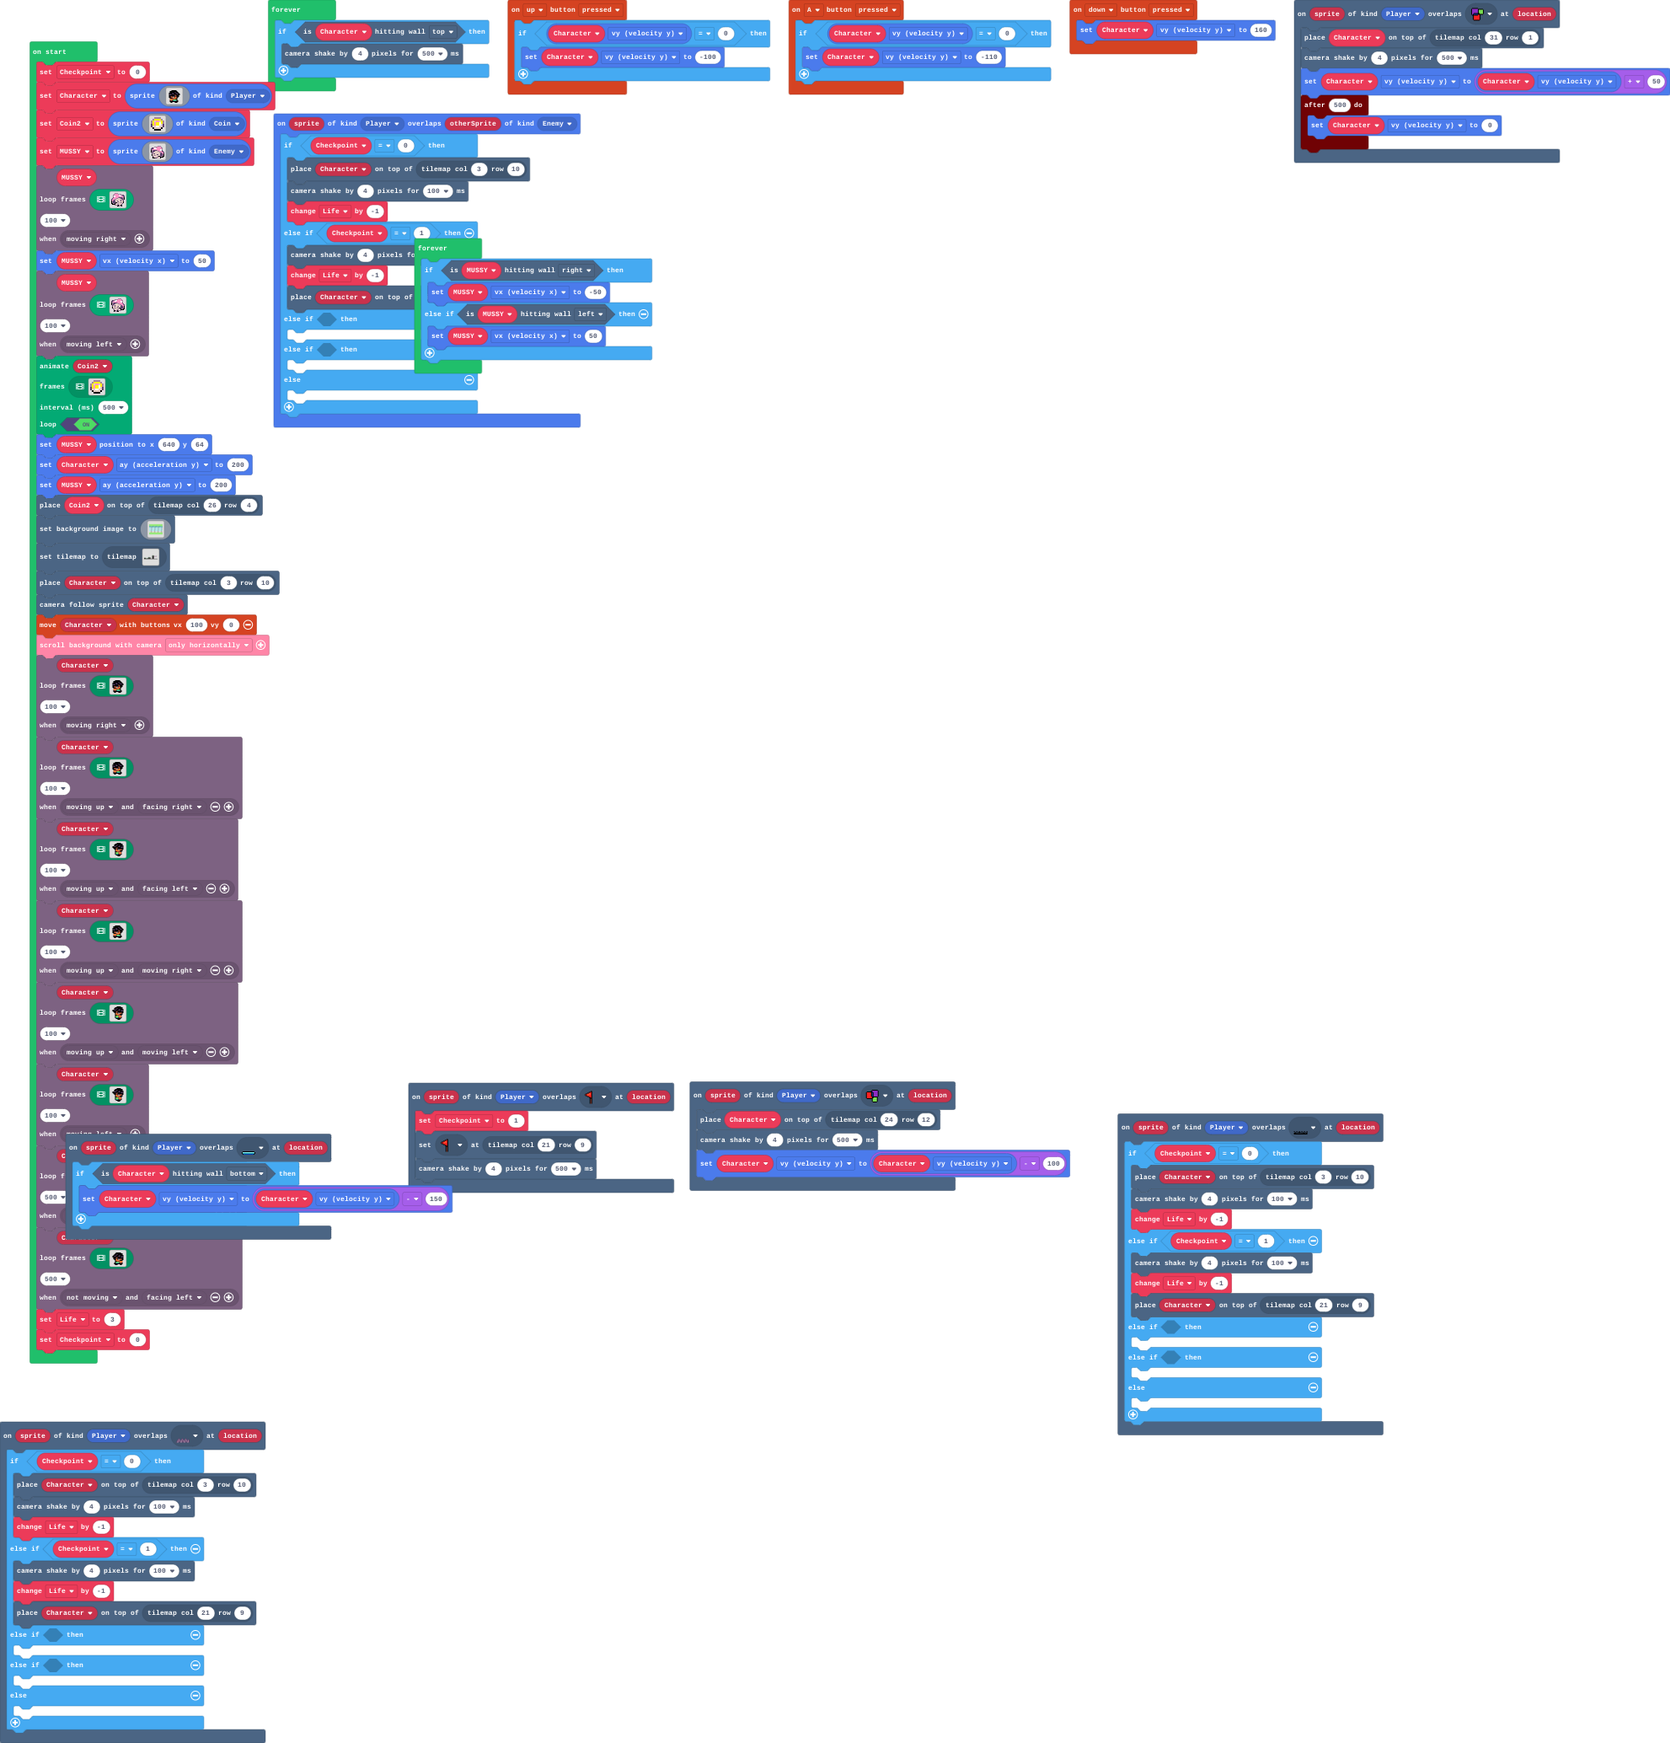
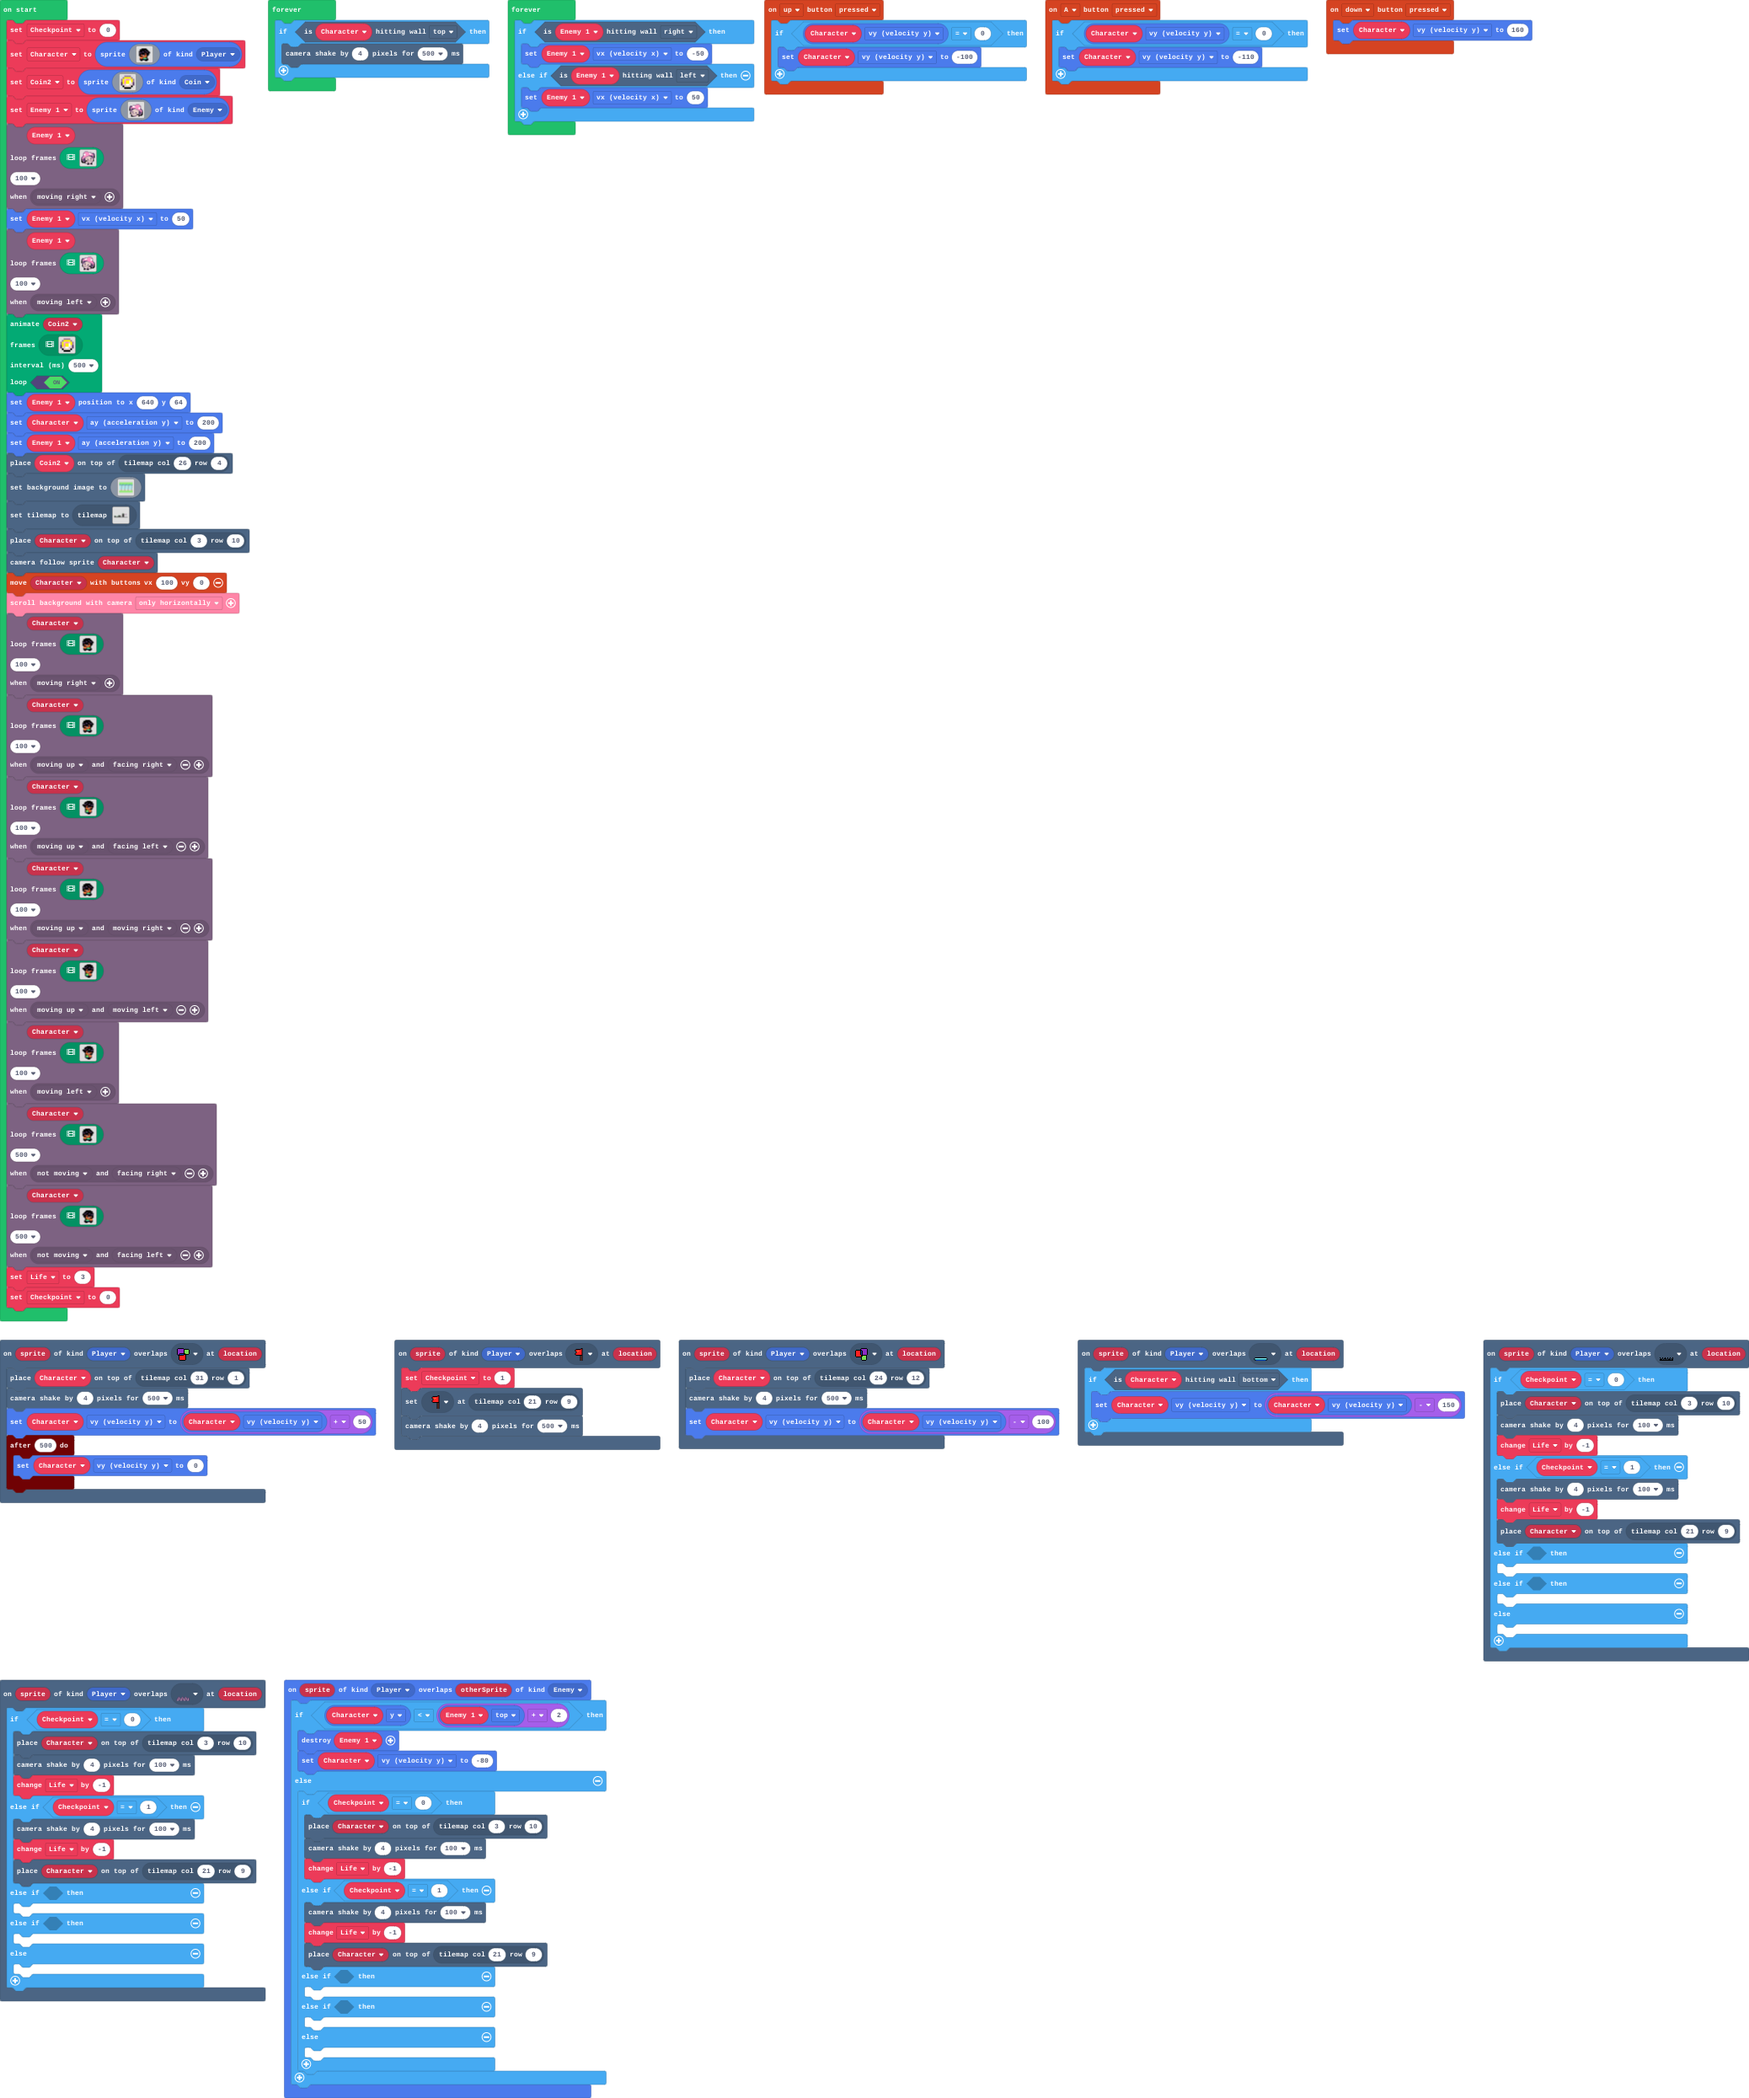
Update main.blocks, main.ts, tilemap.g.jres, tilemap.g.ts

Changed region(s): [[0.0, 0.0, 1.0, 1.0]]

diff --git a/tilemap.g.ts b/tilemap.g.ts
@@ -5,10 +5,6 @@ namespace myTiles {
     //% fixedInstance jres blockIdentity=images._tile
     export const tile1 = image.ofBuffer(hex``);
     //% fixedInstance jres blockIdentity=images._tile
-    export const tile2 = image.ofBuffer(hex``);
-    //% fixedInstance jres blockIdentity=images._tile
-    export const tile3 = image.ofBuffer(hex``);
-    //% fixedInstance jres blockIdentity=images._tile
     export const tile4 = image.ofBuffer(hex``);
     //% fixedInstance jres blockIdentity=images._tile
     export const tile5 = image.ofBuffer(hex``);
@@ -26,28 +22,13 @@ namespace myTiles {
     export const tile12 = image.ofBuffer(hex``);
     //% fixedInstance jres blockIdentity=images._tile
     export const tile6 = image.ofBuffer(hex``);
+    //% fixedInstance jres blockIdentity=images._tile
+    export const tile2 = image.ofBuffer(hex``);
+    //% fixedInstance jres blockIdentity=images._tile
+    export const tile3 = image.ofBuffer(hex``);
 
     helpers._registerFactory("tilemap", function(name: string) {
         switch(helpers.stringTrim(name)) {
-            case "level1":
[1 lines of base64/hex data omitted]
-................................................
-................................................
-................................................
-.............................222222.............
-.............................222222.2.......2...
-.............................222222.222222222...
-.............................222222.222222222...
-.............................222222.............
-.............................222222.............
-................222..........222222.............
-................2222222......222222.............
-222222........2.2222222......222222.............
-222222.......2222222222......222222.............
-222222.22222.2222222222......222222.............
-222222.22222.2222222222......222222.............
-222222.22222.2222222222......222222.............
-`, [myTiles.transparency16,sprites.builtin.forestTiles1,sprites.builtin.forestTiles2,sprites.builtin.forestTiles3,sprites.builtin.forestTiles5,sprites.builtin.forestTiles7,sprites.builtin.forestTiles6,sprites.builtin.forestTiles9,sprites.builtin.forestTiles11,sprites.builtin.forestTiles10,myTiles.tile1,myTiles.tile4,myTiles.tile5,sprites.builtin.forestTiles4,myTiles.tile6,myTiles.tile2,myTiles.tile10,myTiles.tile11,myTiles.tile12,sprites.builtin.oceanSand4,sprites.builtin.oceanSand8,sprites.builtin.oceanSand2,sprites.builtin.oceanSand13,sprites.builtin.oceanSand15], TileScale.Sixteen);
             case "level2":
             case "level2":return tiles.createTilemap(hex`1000100000000000000000000000000000000000000000000000000000000000000000000000000000000000000000000000000000000000000000000000000000000000000000000000000000000000000000000000000000000000000000000000000000000000000000000000000000000000000000000000000000000000000000000000000000000000000000000000000000000000000000000000000000000000000000000000000000000000000000000000000000000000000000000000000000000000000000000000000000000000000000000000000000000000000000000000000000000000000000000000000000000000000000000000000000000000`, img`
 . . . . . . . . . . . . . . . . 
@@ -67,6 +48,25 @@ namespace myTiles {
 . . . . . . . . . . . . . . . . 
 . . . . . . . . . . . . . . . . 
 `, [myTiles.transparency16], TileScale.Sixteen);
+            case "level1":
[1 lines of base64/hex data omitted]
+................................................
+................................................
+................................................
+.............................222222.............
+.............................222222.2.......2...
+.............................222222.222222222...
+.............................222222.222222222...
+.............................222222.............
+.............................222222.............
+................222..........222222.............
+................2222222......222222.............
+222222........2.2222222......222222.............
+222222.......2222222222......222222.............
+222222.22222.2222222222......222222.............
+222222.22222.2222222222......222222.............
+222222.22222.2222222222......222222.............
+`, [myTiles.transparency16,sprites.builtin.forestTiles1,sprites.builtin.forestTiles2,sprites.builtin.forestTiles3,sprites.builtin.forestTiles5,sprites.builtin.forestTiles7,sprites.builtin.forestTiles6,sprites.builtin.forestTiles9,sprites.builtin.forestTiles11,sprites.builtin.forestTiles10,myTiles.tile1,myTiles.tile4,myTiles.tile5,sprites.builtin.forestTiles4,myTiles.tile6,myTiles.tile2,myTiles.tile10,myTiles.tile11,myTiles.tile12,sprites.builtin.oceanSand4,sprites.builtin.oceanSand8,sprites.builtin.oceanSand2,sprites.builtin.oceanSand13,sprites.builtin.oceanSand15], TileScale.Sixteen);
         }
         return null;
     })
@@ -76,10 +76,6 @@ namespace myTiles {
             case "transparency16":return transparency16;
             case "myTile":
             case "tile1":return tile1;
-            case "myTile0":
-            case "tile2":return tile2;
-            case "myTile1":
-            case "tile3":return tile3;
             case "forestTiles15":
             case "tile4":return tile4;
             case "forestTiles13":
@@ -98,6 +94,10 @@ namespace myTiles {
             case "tile12":return tile12;
             case "myTile2":
             case "tile6":return tile6;
+            case "myTile0":
+            case "tile2":return tile2;
+            case "myTile1":
+            case "tile3":return tile3;
         }
         return null;
     })

diff --git a/main.ts b/main.ts
@@ -72,22 +72,28 @@ scene.onOverlapTile(SpriteKind.Player, assets.tile`myTile2`, function (sprite, l
     }
 })
 sprites.onOverlap(SpriteKind.Player, SpriteKind.Enemy, function (sprite, otherSprite) {
-    if (Checkpoint == 0) {
-        tiles.placeOnTile(Character, tiles.getTileLocation(3, 10))
-        scene.cameraShake(4, 100)
-        Life += -1
-    } else if (Checkpoint == 1) {
-        scene.cameraShake(4, 100)
-        Life += -1
-        tiles.placeOnTile(Character, tiles.getTileLocation(21, 9))
-    } else if (false) {
-    	
-    } else if (false) {
-    	
+    if (Character.y < Enemy_1.top + 2) {
+        sprites.destroy(Enemy_1)
+        Character.vy = -80
     } else {
-    	
+        if (Checkpoint == 0) {
+            tiles.placeOnTile(Character, tiles.getTileLocation(3, 10))
+            scene.cameraShake(4, 100)
+            Life += -1
+        } else if (Checkpoint == 1) {
+            scene.cameraShake(4, 100)
+            Life += -1
+            tiles.placeOnTile(Character, tiles.getTileLocation(21, 9))
+        } else if (false) {
+        	
+        } else if (false) {
+        	
+        } else {
+        	
+        }
     }
 })
+let Enemy_1: Sprite = null
 let Character: Sprite = null
 let Checkpoint = 0
 Checkpoint = 0
@@ -119,7 +125,7 @@ let Coin2 = sprites.create(img`
     . f d d d d f . 
     . . f f f f . . 
     `, SpriteKind.Coin)
-let MUSSY = sprites.create(img`
+Enemy_1 = sprites.create(img`
     . . . . . . . . . . . . . . . . 
     . . . . . . . . b b b b . . . . 
     . . . . b b b b 3 3 3 3 b . . . 
@@ -138,7 +144,7 @@ let MUSSY = sprites.create(img`
     . . f f f c c b d d d f . . . . 
     `, SpriteKind.Enemy)
 characterAnimations.loopFrames(
-MUSSY,
+Enemy_1,
 [img`
     . . . . b b b b . . . . . . . . 
     . . . b 3 3 3 3 b b b b . . . . 
@@ -211,9 +217,9 @@ MUSSY,
 100,
 characterAnimations.rule(Predicate.MovingRight)
 )
-MUSSY.vx = 50
+Enemy_1.vx = 50
 characterAnimations.loopFrames(
-MUSSY,
+Enemy_1,
 [img`
     . . . . . . . . b b b b . . . . 
     . . . . b b b b 3 3 3 3 b . . . 
@@ -346,9 +352,9 @@ Coin2,
 500,
 true
 )
-MUSSY.setPosition(640, 64)
+Enemy_1.setPosition(640, 64)
 Character.ay = 200
-MUSSY.ay = 200
+Enemy_1.ay = 200
 tiles.placeOnTile(Coin2, tiles.getTileLocation(26, 4))
 scene.setBackgroundImage(img`
     7777777777777777777777777777777777777777777777777777777777777777777777777777777777777777777777777777777777777777777777777777777777777777777777777777777777777777
@@ -737,9 +743,9 @@ forever(function () {
     }
 })
 forever(function () {
-    if (MUSSY.isHittingTile(CollisionDirection.Right)) {
-        MUSSY.vx = -50
-    } else if (MUSSY.isHittingTile(CollisionDirection.Left)) {
-        MUSSY.vx = 50
+    if (Enemy_1.isHittingTile(CollisionDirection.Right)) {
+        Enemy_1.vx = -50
+    } else if (Enemy_1.isHittingTile(CollisionDirection.Left)) {
+        Enemy_1.vx = 50
     }
 })
